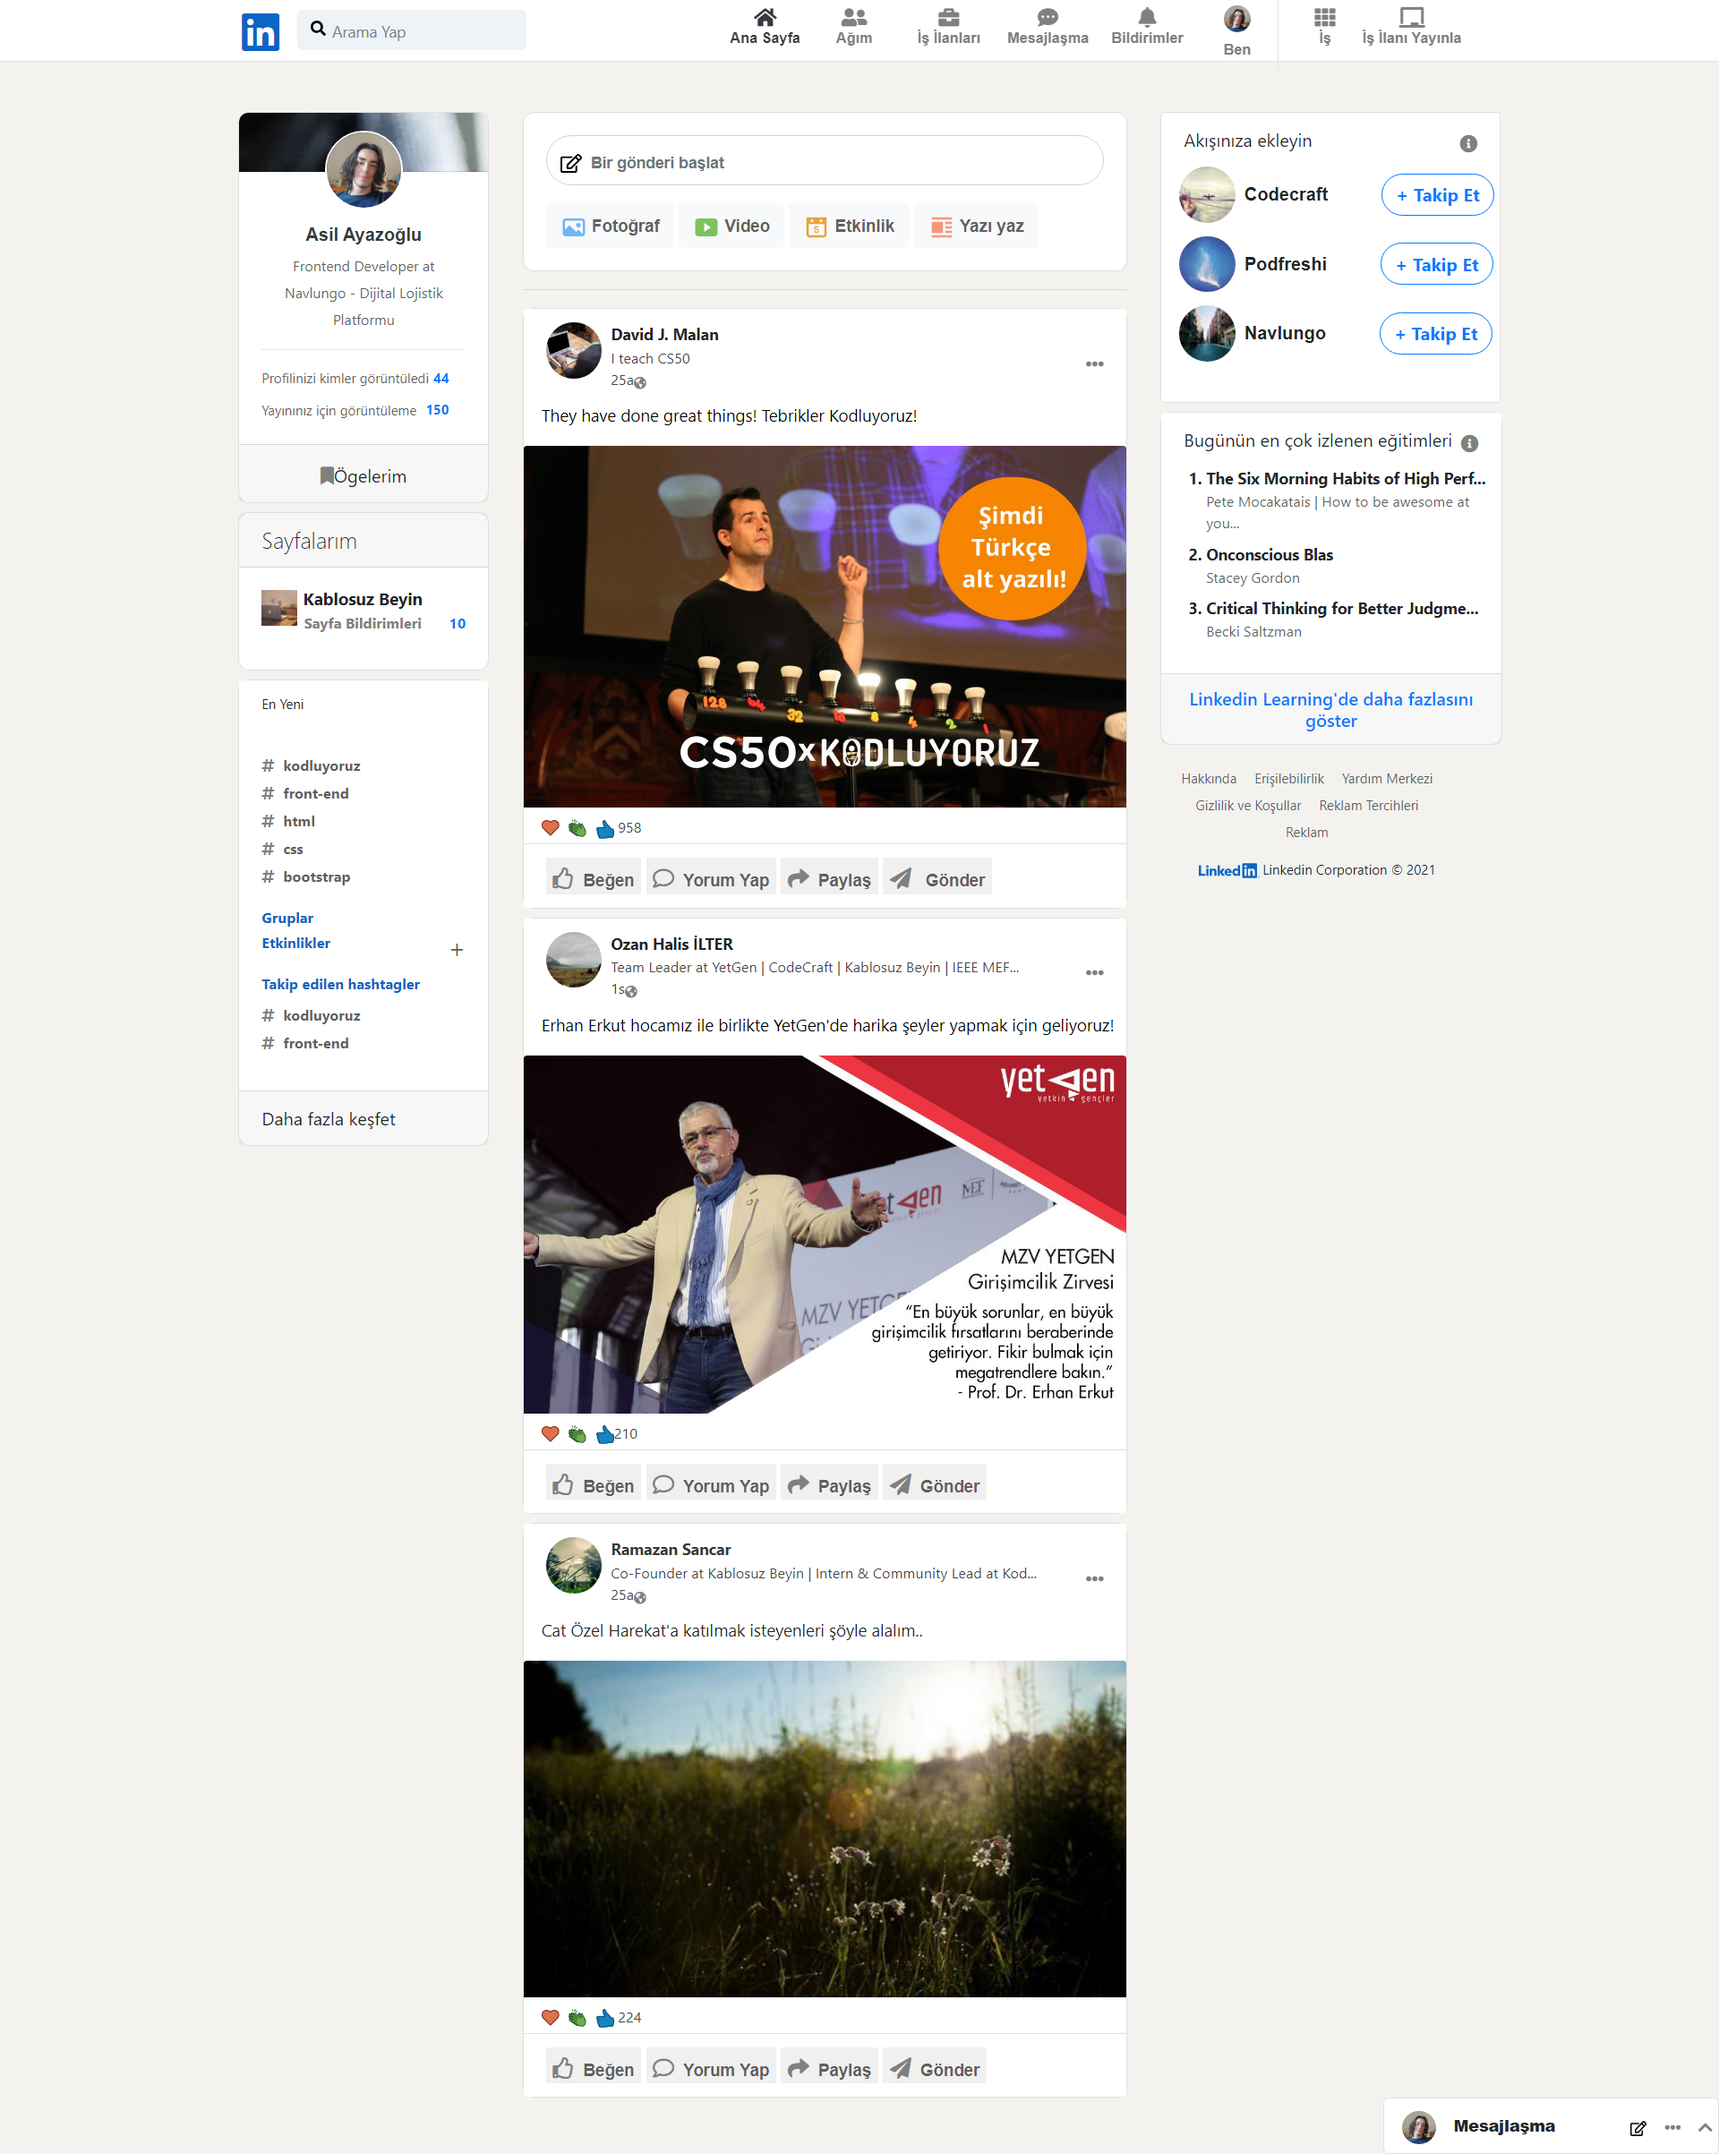
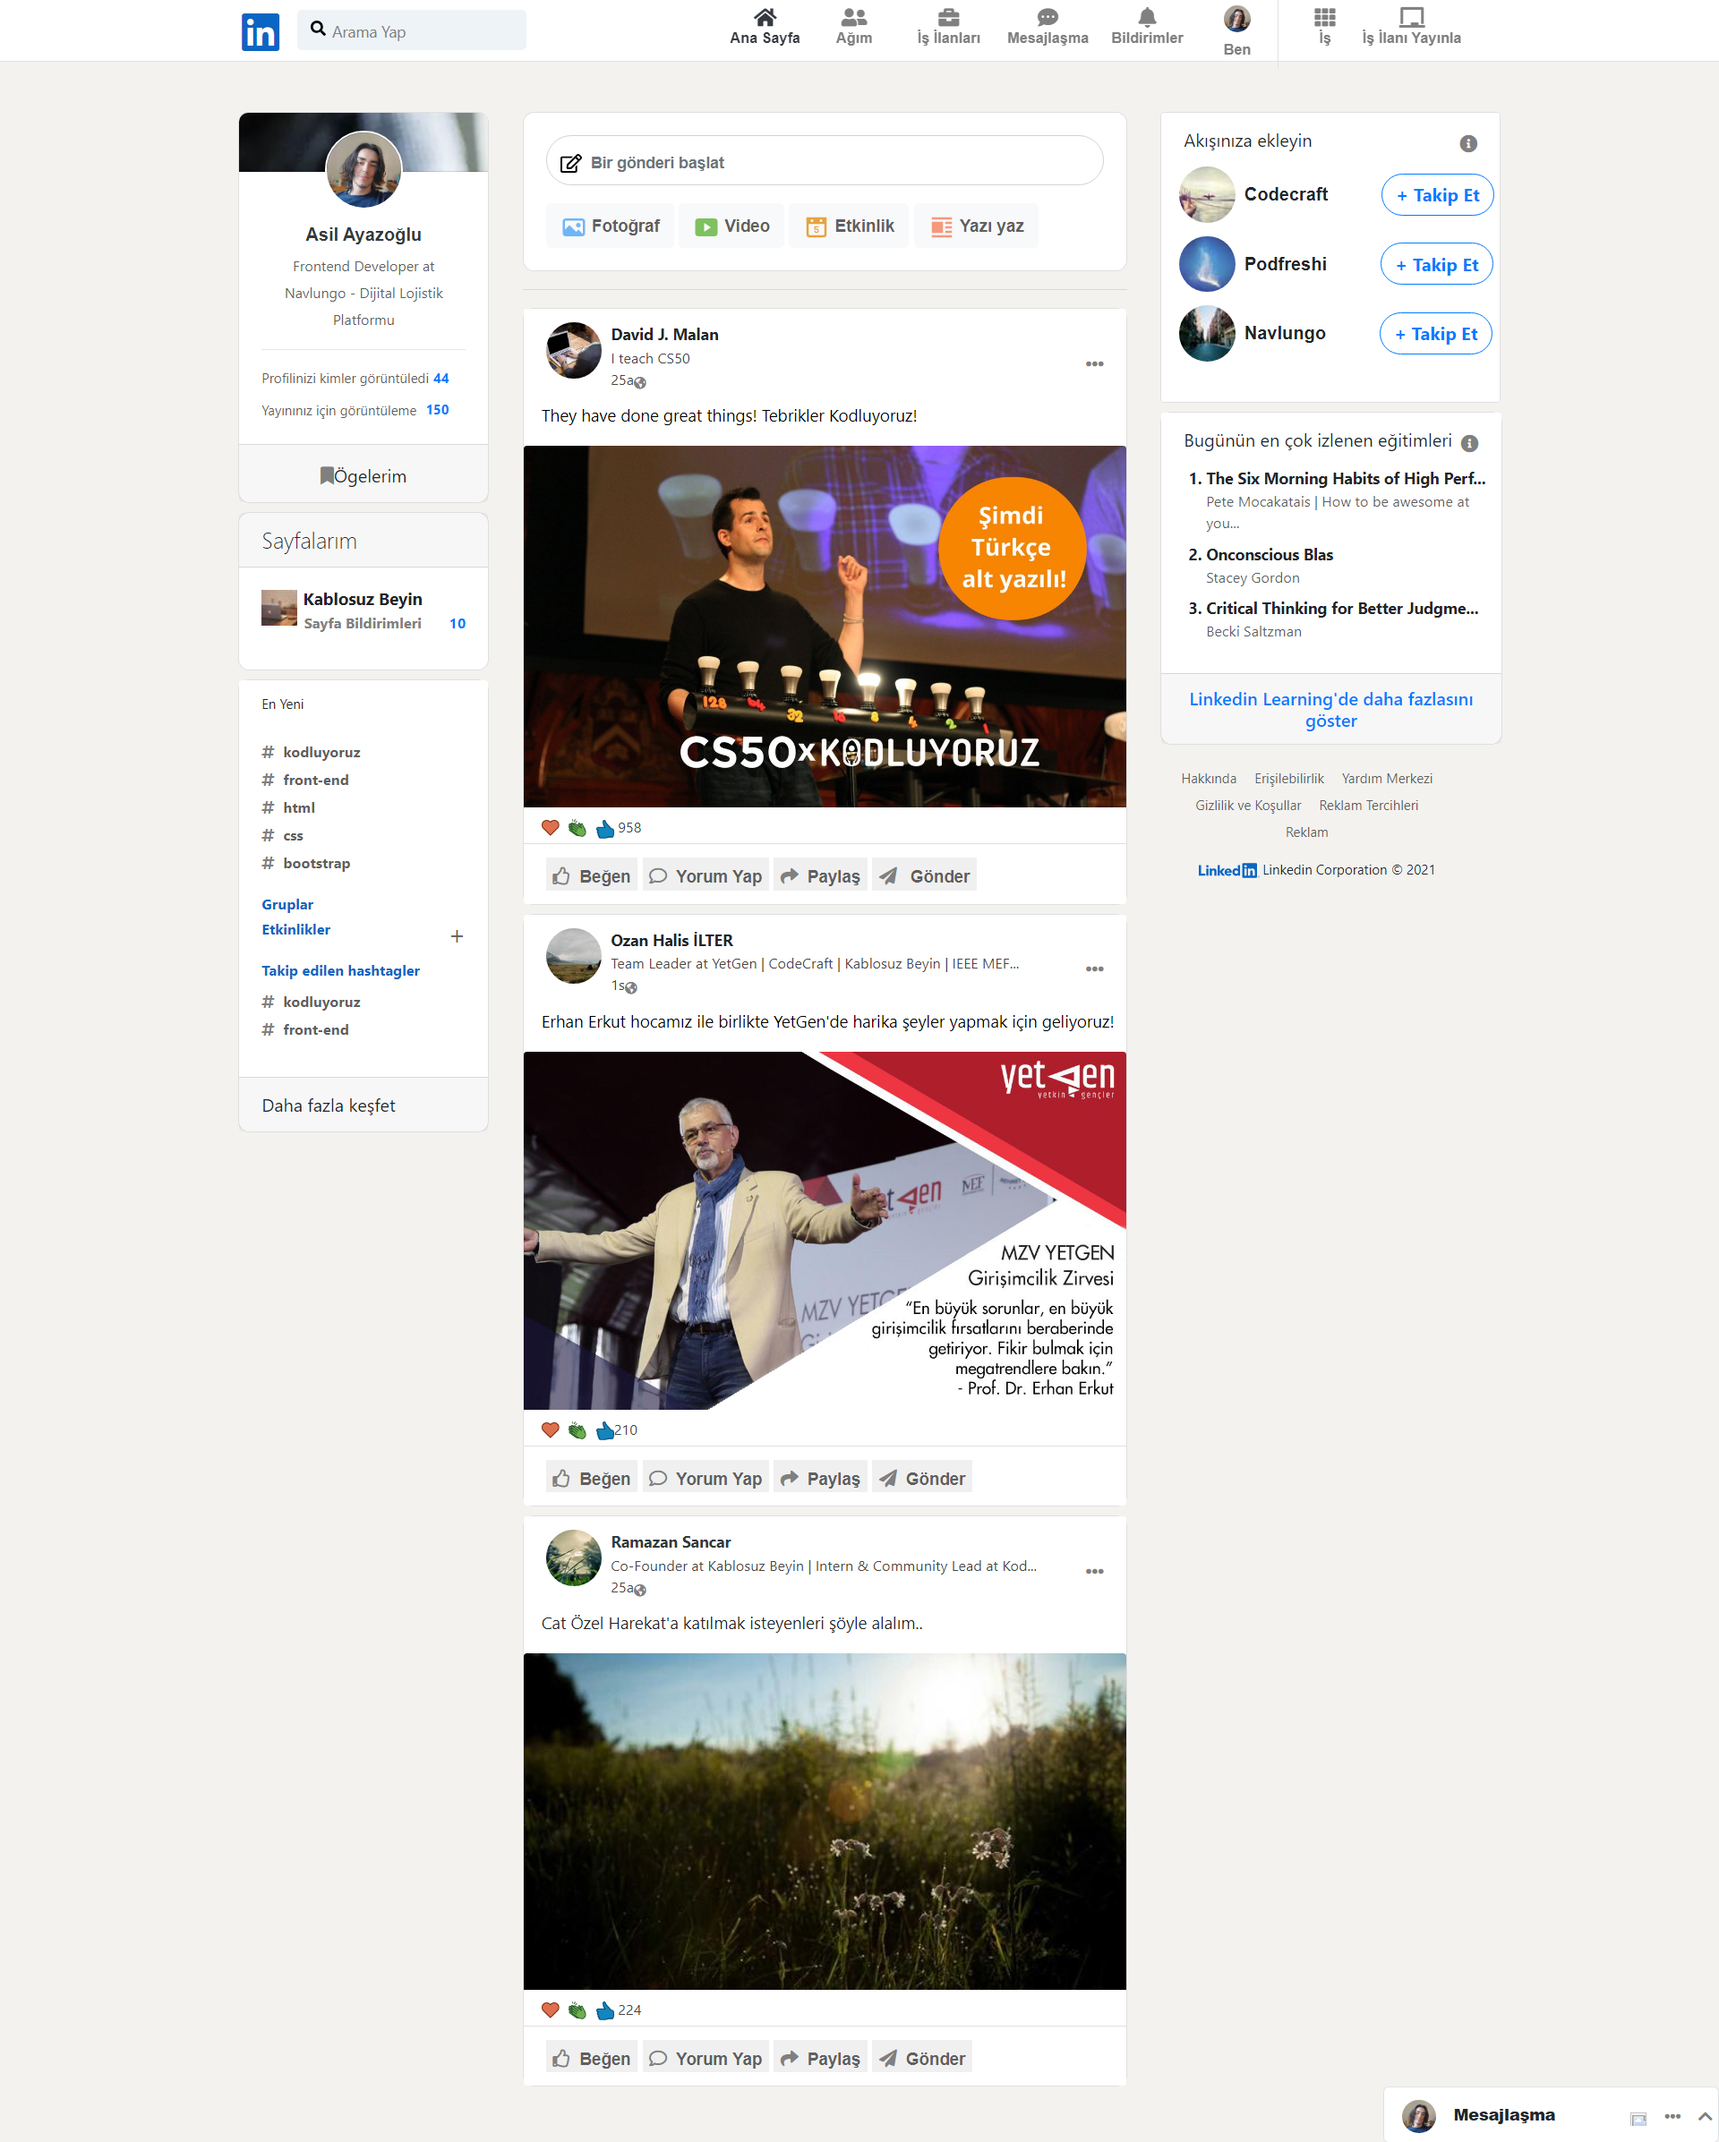
chore: Removed unnecessary code and updated the preview page PNG

diff --git a/index.html b/index.html
@@ -314,9 +314,7 @@
 
         <!-- orta panel -->
         <div
-          class="col-sm-6 ml-5"
-          style=""
-        >
+          class="col-sm-6 ml-5">
           <div class="card">
             <div class="card-body">
               <input
